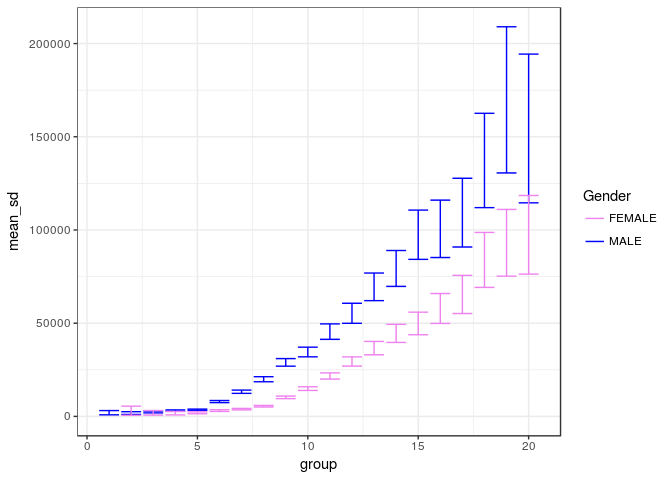
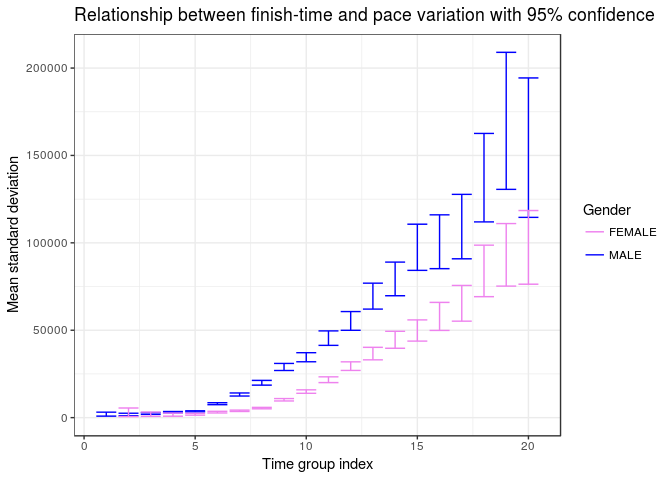
Conclusion.

diff --git a/marathon/analysis.md b/marathon/analysis.md
@@ -8,7 +8,7 @@ Introduction
 
 Legend says that after the military victory against the Persians at the Battle of Marathon (490 BC), Greek soldier Pheidippides ran the 42.195 kilometres that separate Marathon and Athens to report the victory. What people seem to forget about this fable is that Pheidippides died *immediately* after delivering the message. And so long-distance running as we know was born...
 
-This work analyses the 2017 Boston Marathon that took place on April 17th. Using data collected from 26,400 athletes, we will try to identify relationships between gender, age, ability, finishing times and consistency. We are going to use visualizations and statistics to support our claims.
+This work analyses the 2017 Boston Marathon that took place on April 17th. Using data collected from 26,262 athletes, we will try to identify relationships between gender, age, ability, finishing times and consistency. We are going to use visualizations and statistics to support our claims.
 
 ![](coursemap.jpg)
 
@@ -17,9 +17,9 @@ Dataset
 
 The dataset used for this study is available at <https://www.kaggle.com/rojour/boston-results> .
 
-It consists of 26400 observations (athletes), each of which containing name, age, gender, country, city and state (where available), times at 9 different stages of the race, finish time and pace, overall place, gender place and division place. Some observations have missing time data, we will filter those out for simplicity.
+It consists of 26400 observations (athletes), each of which containing name, age, gender, country, city and state (where available), times at 9 different stages of the race, finish time and pace, overall place, gender place and division place.
 
-Given the focus of our analysis, we'll keep only information about the times, sex and gender of each athlete. The dataset is ordered by finishing time. Below we can have a glimpse of the data of the first few runners to cross the line.
+Given the focus of our analysis, we'll keep only information about the times, sex and gender of each athlete. Some observations have missing time data, we will filter those out for simplicity. The dataset is ordered by finishing time. Below we can have a glimpse of the data of the first few runners to cross the line.
 
 ``` r
 # Import libraries
@@ -32,7 +32,8 @@ library(readr);
 
 ``` r
 df <- read.csv("./marathon_results_2017.csv", header=TRUE, stringsAsFactors=FALSE)
-# Select only column
+all_n <- nrow(df)
+# Select only columns of interest
 df <- df[c('Age', 'M.F', 'X5K', 'X10K', 'X15K', 'X20K', 'X25K', 'X30K', 'X35K', 'X40K', 'Official.Time')]
 
 # Filter runners that had technical problems with recording apparatus
@@ -64,12 +65,12 @@ print(paste("Number of runners: ", nrow(df)))
     ## [1] "Number of runners:  26262"
 
 ``` r
-print(paste("Number faulty observations: ", 26400 - nrow(df)))
+print(paste("Number faulty observations: ", all_n - nrow(df)))
 ```
 
-    ## [1] "Number faulty observations:  138"
+    ## [1] "Number faulty observations:  148"
 
-As we can see, there are 8 columns that show the surpassed time at each 5K mark. Later we'll do some pace variance analysis, so we'll convert these times to be the time passed **not** from the start of the race, but from the mark of the previous 5K split.
+As we can see, there are 8 columns that show the surpassed time at each 5K mark. Later we'll do some pace variance analysis, so we'll convert these times to be the time passed from the mark of the previous 5K split, and **not** from the start of the race.
 
 This means that, for example, the X15K column will not tell how long it took the runner to run 15 kilometers, but how long it took the runner to run the last 5 kilometers preceding the 15K mark, i.e., from 10K to 15K.
 
@@ -85,14 +86,11 @@ df$X20K <- as.numeric(difftime(df$X20K, df$X15K, units='secs'))
 df$X15K <- as.numeric(difftime(df$X15K, df$X10K, units='secs'))
 df$X10K <- as.numeric(difftime(df$X10K, df$X5K, units='secs'))
 df$X5K <- as.numeric(difftime(df$X5K, as.POSIXct('00:00:00', format="%H:%M:%S"), units='secs'))
-head(df)
 ```
 
-Now we can read the data frame above as: it took 925 seconds for runner \#1 to run the first 5K of the race, 903s to run the next 5K, and so on.
+Before we move to the analysis of the results, let's take a look at the demographics of the population.
 
-But before we move to the analysis of the results, let's take a look at the demographics of the population.
-
-Inside a marathon there are many simultaneous events. There are men and women's division, as well as 10 official divisons by age intervals. The main age group is the \[18, 39\] year old, after that there are 9 age groups each with 5 a year spa,, but for sake of conciseness, we'll divide athletes into 2 groups: young (belonging to the \[18, 39\] age bracket), and 40+, for the remaining.
+Inside a marathon there are many simultaneous events. There are men and women's division, as well as 10 official divisons by age intervals. The main age group is the \[18, 39\] year old, after that there are 9 age groups each with 5 a year span, but for sake of conciseness, we'll divide athletes into 2 groups: young (belonging to the \[18, 39\] age bracket), and 40+, for the remaining.
 
 ``` r
 demo <- df %>%
@@ -118,7 +116,7 @@ Given the pie chart above, we can see that our population composed of 55% men an
 
 As for age, 44% of people are in the "young" range, whilst the remaining are 40 years or older.
 
-The largest group is 40+ men and the smallest is young men, which is interesting.
+The largest group is 40+ men and the smallest is young men.
 
 How gender and age influence finish-times
 -----------------------------------------
@@ -165,9 +163,7 @@ Finish-time is one metric for running performance, but it is not the only one. P
 
 We would to see if these two measurements are correlated. That is, are fast runners really more disciplined?
 
-To find out we compute the standard deviation between the 8 5K splits for each runner, and then group them into 20 evenly spaced time-intervals. The first runners to finish the race are in group 1 and last are in group 20 (note that the grouping is not done by finishing position, but finishing-time).
-
-Then for each group we compute the mean standard deviation. The plot below show how finish group relates to pace variation.
+To find out we compute the standard deviation between the 8 5K splits for each runner, and then group them into 20 evenly spaced time-intervals. The first runners to finish the race are in group 1 and last are in group 20 (note that the grouping is not done by finishing position, but finishing-time). Then for each group we compute the mean standard deviation. The plot below show how finish group relates to pace variation.
 
 ``` r
 n_groups <- 20
@@ -268,7 +264,11 @@ for (i in 1:length(intervals)) print(paste("Group ", i,  ' - Finished race in th
     ## [1] "Group  19  - Finished race in the (331,342] minutes interval."
     ## [1] "Group  20  - Finished race in the (342,354] minutes interval."
 
-Based on the plot below we can make two claims: 1 - Fast runners' paces vary less than slow runners. 2 - Men tend to be less disciplined than women.
+Based on the plot below we can make two claims:
+
+1 - Fast runners' paces vary less than slow runners.
+
+2 - Men tend to be less disciplined than women with similar finishing-time.
 
 ``` r
 ggplot(g_sd_df) +
@@ -280,65 +280,26 @@ ggplot(g_sd_df) +
 
 ![](analysis_files/figure-markdown_github-ascii_identifiers/unnamed-chunk-9-1.png)
 
-The graph above is very enlightening but it doesn't take into consideration that some groups have have few runners, introducing a level of uncertainty to the statistics.
+The graph above is very enlightening but it doesn't take into consideration that some groups have a small number of runners, introducing a level of uncertainty to the statistics.
 
-Fortunately, there are ways we can account for that. If want to find out the population standard deviation and we are given a sample standard deviation and sample size, and we assume that our population data is normally distributed, we can use a chi-square distribution to generate a confidence interval.
+Fortunately, there are ways we can account for that. If want to find out the population standard deviation and we are given a sample standard deviation and sample size, assuming that our population data is normally distributed, we can use a chi-square distribution to generate a confidence interval. For the plot below we extracted a 95% confidence interval.
 
-For more info see: <http://www.milefoot.com/math/stat/ci-variances.htm> <https://www.youtube.com/watch?v=d7nLL6cUC0I>
+For more info on the statistics see:
+
+<http://www.milefoot.com/math/stat/ci-variances.htm>
+
+<https://www.youtube.com/watch?v=d7nLL6cUC0I>
 
 ``` r
 g_sd_df <- filter(g_sd_df, g_sd_df$Gender == 'MALE' | g_sd_df$Gender == 'FEMALE')
 g_sd_df$min_error <- ((g_sd_df$n-1) * (g_sd_df$mean_sd * g_sd_df$mean_sd)) / qchisq(.025, df = g_sd_df$n - 1, lower.tail = FALSE)
 g_sd_df$max_error <- ((g_sd_df$n-1) * (g_sd_df$mean_sd * g_sd_df$mean_sd)) / qchisq(.975, df = g_sd_df$n - 1, lower.tail = FALSE)
-g_sd_df
-```
 
-    ##    group Gender    n   mean_sd     sd_sd   min_error  max_error
-    ## 1      1   MALE   20  38.27507  19.92175    847.2654   3125.199
-    ## 2      2   MALE   43  39.46135  29.95823   1058.6881   2515.603
-    ## 3      2 FEMALE    8  36.43171  18.58525    580.2174   5497.991
-    ## 4      3   MALE  174  47.93407  33.78129   1881.0831   2870.597
-    ## 5      3 FEMALE   16  36.29235  24.29730    718.7404   3154.996
-    ## 6      4   MALE  572  55.72010  42.95869   2773.8690   3498.855
-    ## 7      4 FEMALE   24  36.52757  19.61190    805.9763   2625.480
-    ## 8      5   MALE 1138  59.84978  44.26759   3304.8660   3895.691
-    ## 9      5 FEMALE  105  42.63999  26.56413   1409.9462   2434.456
-    ## 10     6   MALE 1545  88.98942  55.16976   7388.8936   8508.828
-    ## 11     6 FEMALE  337  55.49481  31.18230   2662.3021   3604.066
-    ## 12     7   MALE 1742 114.85999  70.37731  12358.4826  14115.027
-    ## 13     7 FEMALE  753  62.15704  41.01972   3500.9013   4285.801
-    ## 14     8   MALE 1654 140.95475  84.06847  18580.3653  21295.513
-    ## 15     8 FEMALE 1348  73.73308  41.29138   5048.2582   5871.701
-    ## 16     9   MALE 1574 169.92828  99.16815  26959.2569  31004.896
-    ## 17     9 FEMALE 1717 100.93465  54.53018   9539.0619  10905.395
-    ## 18    10   MALE 1363 185.47146 108.04135  31955.4829  37136.857
-    ## 19    10 FEMALE 1750 121.90053  66.16859  13922.0327  15895.969
-    ## 20    11   MALE  925 212.57744 122.19973  41335.9049  49610.377
-    ## 21    11 FEMALE 1325 146.91404  77.19533  20029.5126  23327.098
-    ## 22    12   MALE  813 234.36426 134.95519  49952.2214  60686.876
-    ## 23    12 FEMALE 1097 171.19461  86.19351  27000.6523  31924.927
-    ## 24    13   MALE  673 262.51198 150.15485  62099.3021  76918.063
-    ## 25    13 FEMALE  802 190.69926 113.34592  33051.7745  40208.139
-    ## 26    14   MALE  519 280.14990 181.11344  69738.6719  88993.078
-    ## 27    14 FEMALE  643 210.07861 129.45303  39676.7446  49388.706
-    ## 28    15   MALE  415 309.99857 189.94179  84242.5460 110661.660
-    ## 29    15 FEMALE  516 222.02667 125.29180  43788.3176  55917.706
-    ## 30    16   MALE  325 314.38013 186.03662  85220.8354 116011.807
-    ## 31    16 FEMALE  397 238.85977 178.66379  49871.9874  65916.083
-    ## 32    17   MALE  267 327.03602 165.03295  90872.1768 127738.242
-    ## 33    17 FEMALE  311 253.37339 139.24620  55179.2021  75636.709
-    ## 34    18   MALE  223 365.73323 209.58219 111988.8121 162598.919
-    ## 35    18 FEMALE  246 286.32150 165.47138  69199.8309  98679.582
-    ## 36    19   MALE  141 403.64226 321.92175 130604.4890 209001.699
-    ## 37    19 FEMALE  205 300.87035 199.73412  75236.5537 111019.293
-    ## 38    20   MALE  112 382.90041 181.30418 114566.4766 194351.314
-    ## 39    20 FEMALE  161 306.52079 217.83997  76341.5100 118489.741
-
-``` r
 ggplot(g_sd_df, aes(x=group, y=mean_sd, colour=Gender)) +
   geom_errorbar(aes(ymin=min_error, ymax=max_error)) +
   scale_color_manual(values=c('violet', 'blue')) +
-  theme_bw()
+  theme_bw() +
+  labs(title = "Relationship between finish-time and pace variation with 95% confidence", x = "Time group index", y = "Mean standard deviation")
 ```
 
 ![](analysis_files/figure-markdown_github-ascii_identifiers/unnamed-chunk-10-1.png)
@@ -374,107 +335,33 @@ a_sd_df$age <- as.numeric(a_sd_df$age)
 a_sd_df$n <- as.numeric(a_sd_df$n)
 a_sd_df$mean_sd <- as.numeric(a_sd_df$mean_sd)
 a_sd_df$sd_sd <- as.numeric(a_sd_df$sd_sd)
-a_sd_df
 ```
 
-    ##    age    n  mean_sd     sd_sd
-    ## 1   18   19 156.6251  79.33051
-    ## 2   19   40 195.2179 165.02688
-    ## 3   20   82 196.5130 150.37722
-    ## 4   21  145 199.1194 301.01065
-    ## 5   22  210 168.6401 123.69282
-    ## 6   23  303 162.1175 120.22602
-    ## 7   24  442 169.2321 153.09034
-    ## 8   25  493 155.9612 118.14160
-    ## 9   26  551 143.2903 113.89222
-    ## 10  27  563 159.7887 150.61403
-    ## 11  28  580 144.2321 137.97444
-    ## 12  29  631 156.7996 139.87859
-    ## 13  30  618 155.4341 139.68842
-    ## 14  31  571 146.7977 113.42729
-    ## 15  32  549 149.4690 137.87073
-    ## 16  33  581 151.8884 125.81674
-    ## 17  34  534 152.6913 173.03234
-    ## 18  35  791 143.4829 122.58325
-    ## 19  36  720 134.6166 107.00676
-    ## 20  37  674 145.3593 128.20231
-    ## 21  38  663 153.8785 132.89505
-    ## 22  39  703 143.7240 118.08541
-    ## 23  40  911 140.4932 122.26992
-    ## 24  41  789 150.0659 119.61951
-    ## 25  42  750 147.7823 115.97741
-    ## 26  43  697 144.4044 121.53007
-    ## 27  44  641 140.5243 106.88589
-    ## 28  45 1113 153.3538 120.05377
-    ## 29  46  965 149.3187 113.86551
-    ## 30  47  832 153.4836 121.68783
-    ## 31  48  769 160.0889 134.98564
-    ## 32  49  673 161.4077 139.17823
-    ## 33  50  807 172.5804 151.54026
-    ## 34  51  651 157.4755 122.43145
-    ## 35  52  627 166.4470 119.10862
-    ## 36  53  565 163.4128 129.51142
-    ## 37  54  476 172.0096 122.14008
-    ## 38  55  670 164.0584 108.06859
-    ## 39  56  492 165.1727 132.20745
-    ## 40  57  414 180.9012 144.97780
-    ## 41  58  338 174.7528 123.63029
-    ## 42  59  280 176.4342 120.23149
-    ## 43  60  483 189.8587 126.41364
-    ## 44  61  338 180.2348 129.50649
-    ## 45  62  269 188.7419 119.65477
-    ## 46  63  152 183.4591 124.53893
-    ## 47  64  115 196.3712 131.32163
-    ## 48  65  183 212.1644 140.19358
-    ## 49  66  133 214.6463 137.74876
-    ## 50  67   97 175.9202 127.20699
-    ## 51  68   64 200.9958 116.30743
-    ## 52  69   43 174.7200 118.44975
-    ## 53  70   77 235.6415 155.03387
-    ## 54  71   25 250.3975 139.18054
-    ## 55  72   19 238.7829 148.73893
-    ## 56  73   20 221.3716  90.88687
-    ## 57  74   17 200.4514  80.75831
-    ## 58  75   15 196.1560 108.91671
-    ## 59  76   10 313.5230 166.68962
-    ## 60  77    4 160.4144  62.05059
-    ## 61  78    3 154.5333 104.75818
-    ## 62  79    3 138.5737  67.91317
-    ## 63  80    3 238.7732 244.21946
-    ## 64  81    2 320.8028 270.26002
-    ## 65  83    1 242.5224   0.00000
+Below we see the relationship between age and pace variation. Interestingly, it resembles a parabola with global minima at ~37.
 
 ``` r
 a_sd_df$min_error <- ((a_sd_df$n-1) * (a_sd_df$mean_sd * a_sd_df$mean_sd)) / qchisq(.025, df = a_sd_df$n - 1, lower.tail = FALSE)
 a_sd_df$max_error <- ((a_sd_df$n-1) * (a_sd_df$mean_sd * a_sd_df$mean_sd)) / qchisq(.975, df = a_sd_df$n - 1, lower.tail = FALSE)
+a_sd_df <- filter(a_sd_df,  !is.na(min_error))
 
 ggplot(a_sd_df, aes(x=age, y=mean_sd)) +
-  geom_point() +
+  geom_point(aes(size = n)) +
   # Error bars were removed because some ages have very few athletes and error bars were too large
-  #  geom_errorbar(aes(ymin=min_error, ymax=max_error)) +
-  theme_bw()
+  # geom_errorbar(aes(ymin=min_error, ymax=max_error)) +
+  theme_bw() + 
+  labs(title = "Relationship between age and pace variation", x = "Age", y = "Mean standard deviation") + 
+  scale_size_continuous(name="# runners per age")
 ```
 
 ![](analysis_files/figure-markdown_github-ascii_identifiers/unnamed-chunk-12-1.png)
 
-``` r
-corr <- df %>%
-  select(cols) %>%
-  transform(SD=apply(., 1, sd, na.rm = TRUE)) %>%
-  select(c('SD')) %>%
-  as.data.frame()
+Let's try a thought exercise, after all, isn't that what visualizations are about?
 
-corr <- bind_cols(corr, select(df, c('Official.Time')))
+We can conjecture that young runners are fit, but are not wise about the limits of their bodies (maybe they are too eager and overestimate their capacity). As runners get older, they better understand their limits, but their bodies as not as capable anymore. Is the interval of 35-38 years of age the sweetspot between "wisdom" and fitness? Again, these are only (interesting) speculations.
 
-ggplot(corr, aes(x=Official.Time, y=SD)) +
-  #stat_density_2d(geom = "raster", aes(fill = ..density..), contour = FALSE)
-  #stat_density_2d(aes(fill = ..level..), geom = "polygon")
-  #stat_density_2d(geom = "point", aes(size = ..density..), n = 20, contour = FALSE)
-  geom_hex(binwidth = c(1, 20)) + 
-  theme_bw()
-```
+Up until now we've always used some sort of aggretation (age, finish-group, gender) and we've never really looked at the raw data: the split values.
 
-![](analysis_files/figure-markdown_github-ascii_identifiers/unnamed-chunk-13-1.png)
+The next animation takes a sample of size 20 from each of the 20 finish intervals we defined earlier. Then sequentially draws the 20 draws from group 1, then the 20 draws from group 2, and so on. To help differentiate groups, each interval is colorcoded acording to the rainbow colormap. On the X axis we have the splits and on the Y axis we have how many seconds it took for the athlete to run that 5 kilometers interval.
 
 ``` r
 if (!file.exists('animation.gif')) {
@@ -513,3 +400,18 @@ if (!file.exists('animation.gif')) {
 ```
 
 ![](animation.gif)
+
+There are many interesting conclusion we can draw from this animation:
+
+1 - The first groups (fastest runners) generate very straight lines parallel to the X axis. They are consistently fast.
+
+2 - As we move to slower runners, the lines get less uniform, confirming what our previous statistics told us: pace varies more for slow runners.
+
+3 - There is something that our statistics weren't able to show us, but now we can see very clearly: Slow runners tend to start the race fast and finish it slow. We can see that by the positive slopes of the lines for the last groups.
+
+Conclusion
+----------
+
+We've just scrachted the surface in the exploration of marathon data. Yet, with only 7 visualizations, we were able to see very interesting and strong patterns in our results.
+
+And for every question we anwsered, many more were created. For example, are these patterns consistent for different marathons? Does nationality have a big impact on finish-time? Can we identify these same patterns in half-marathons or in ultramarathons? Do other endurance sports (cycling, swimming) show similar trends? The possibilities are endless.
